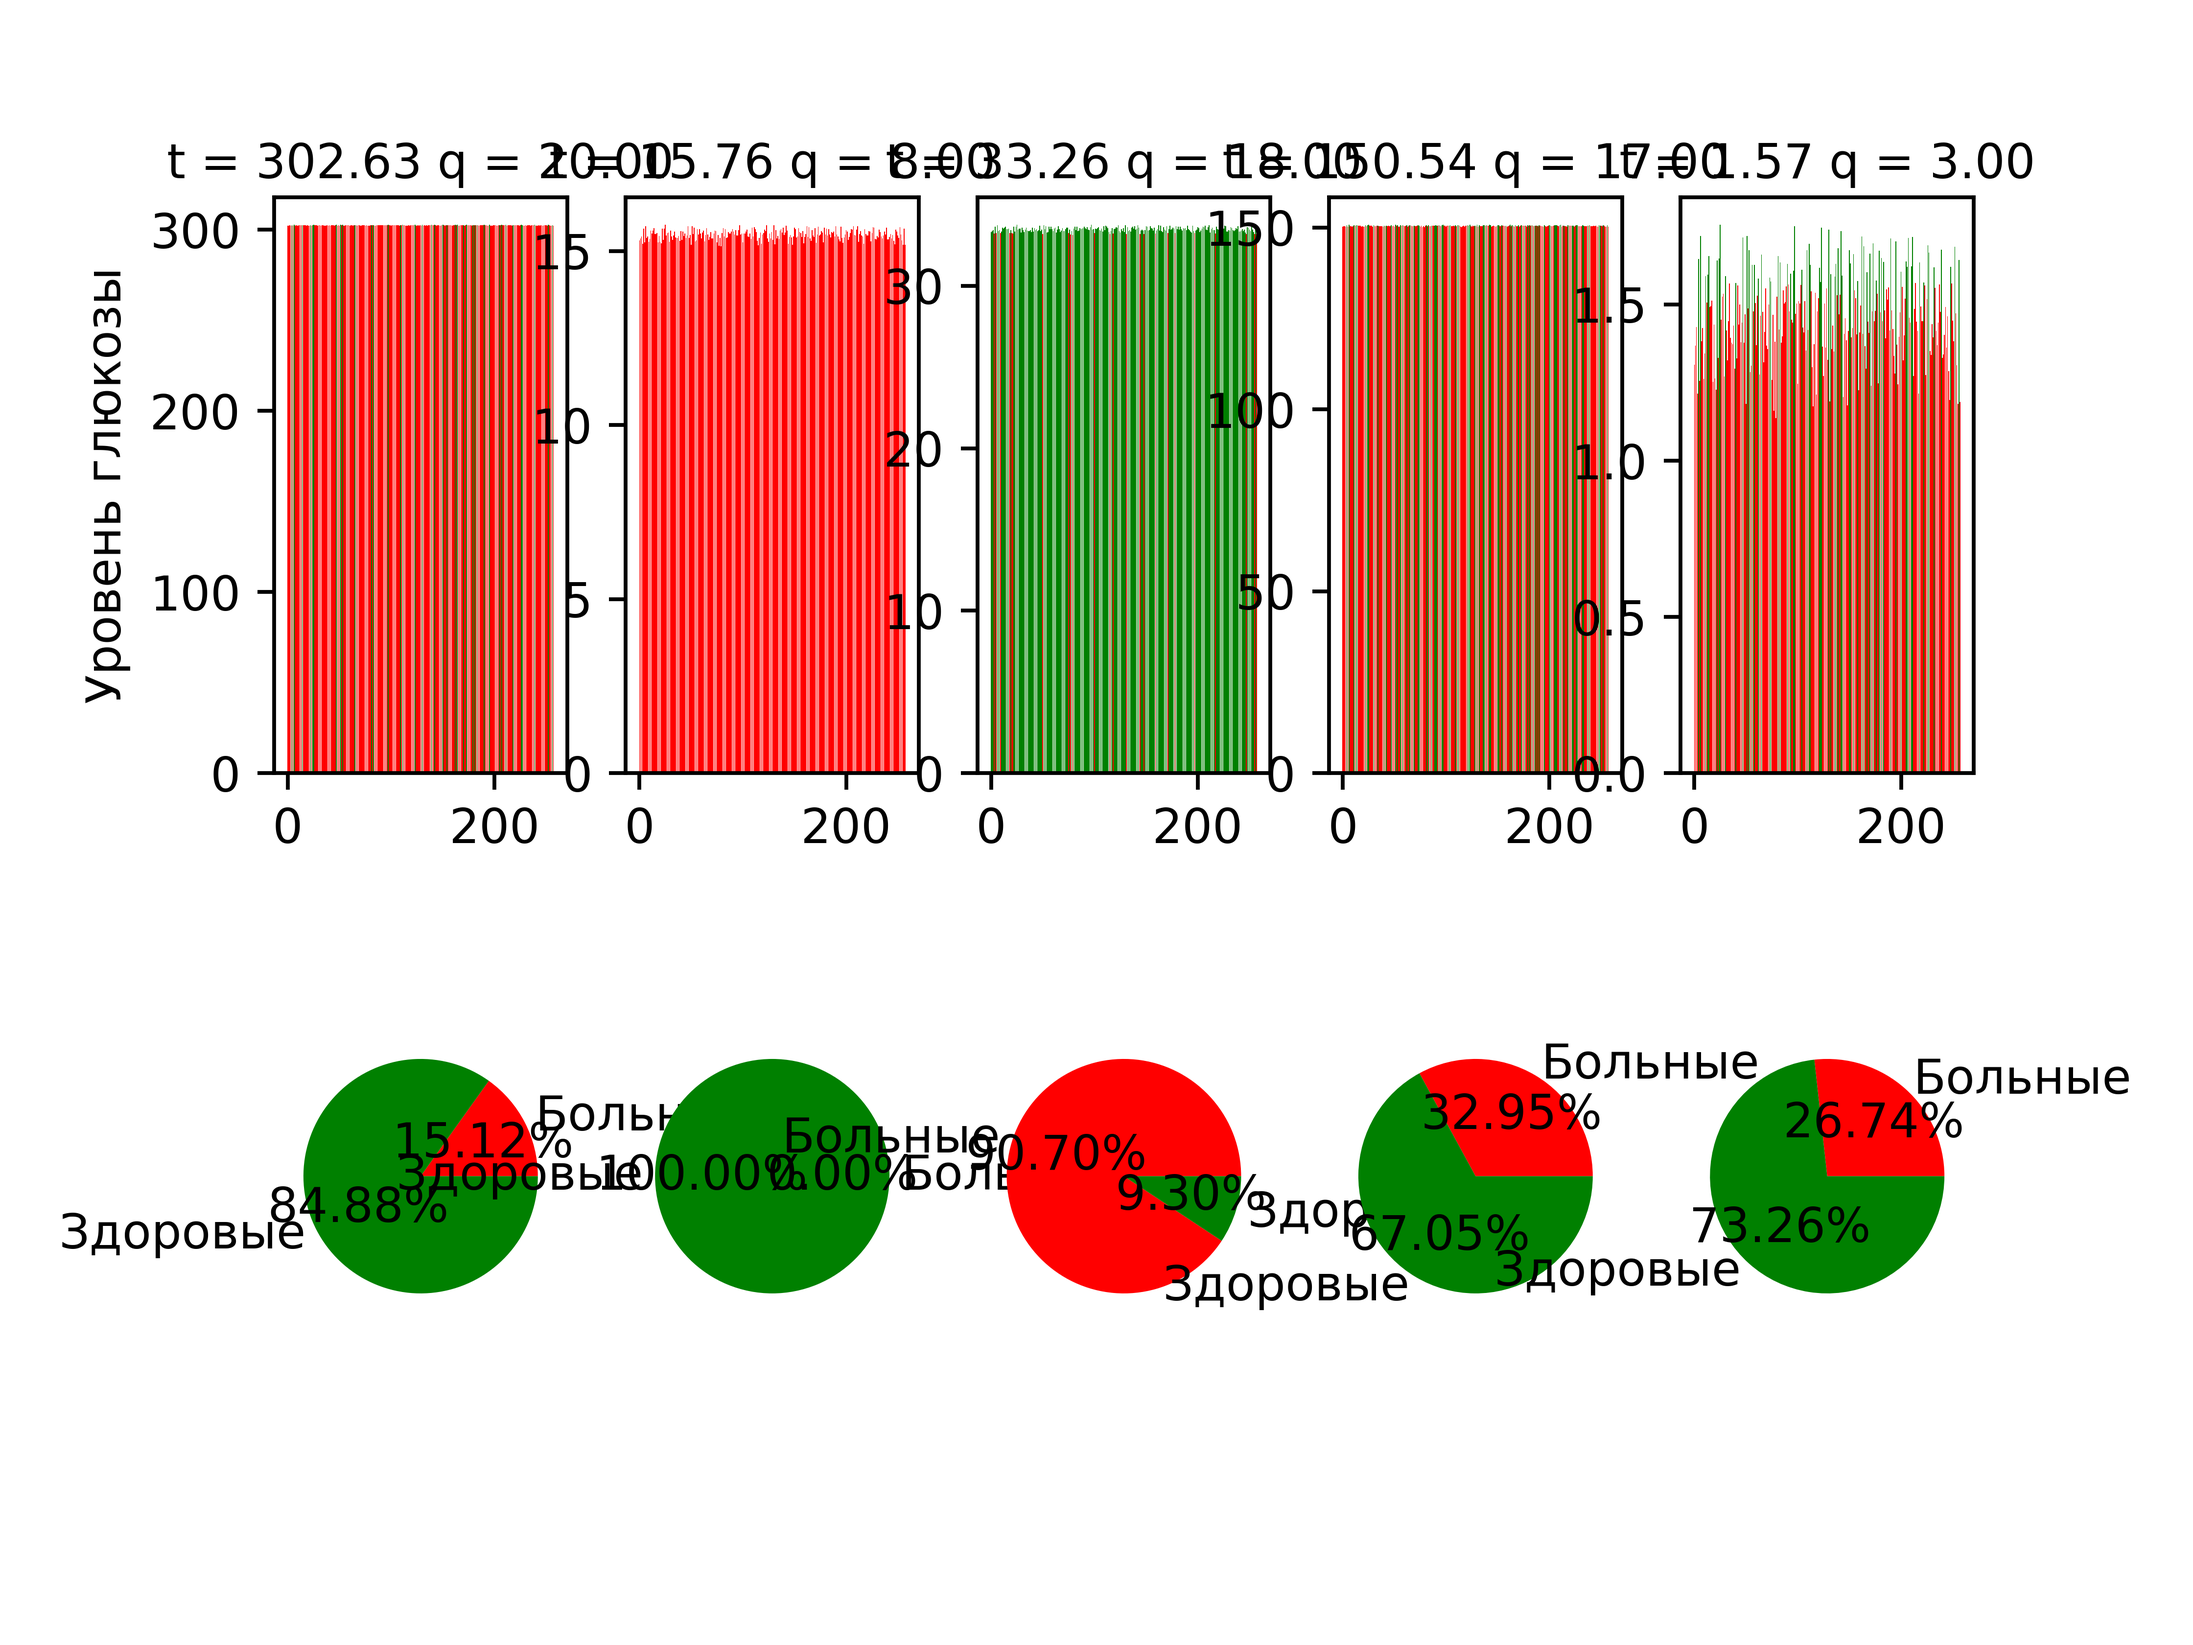
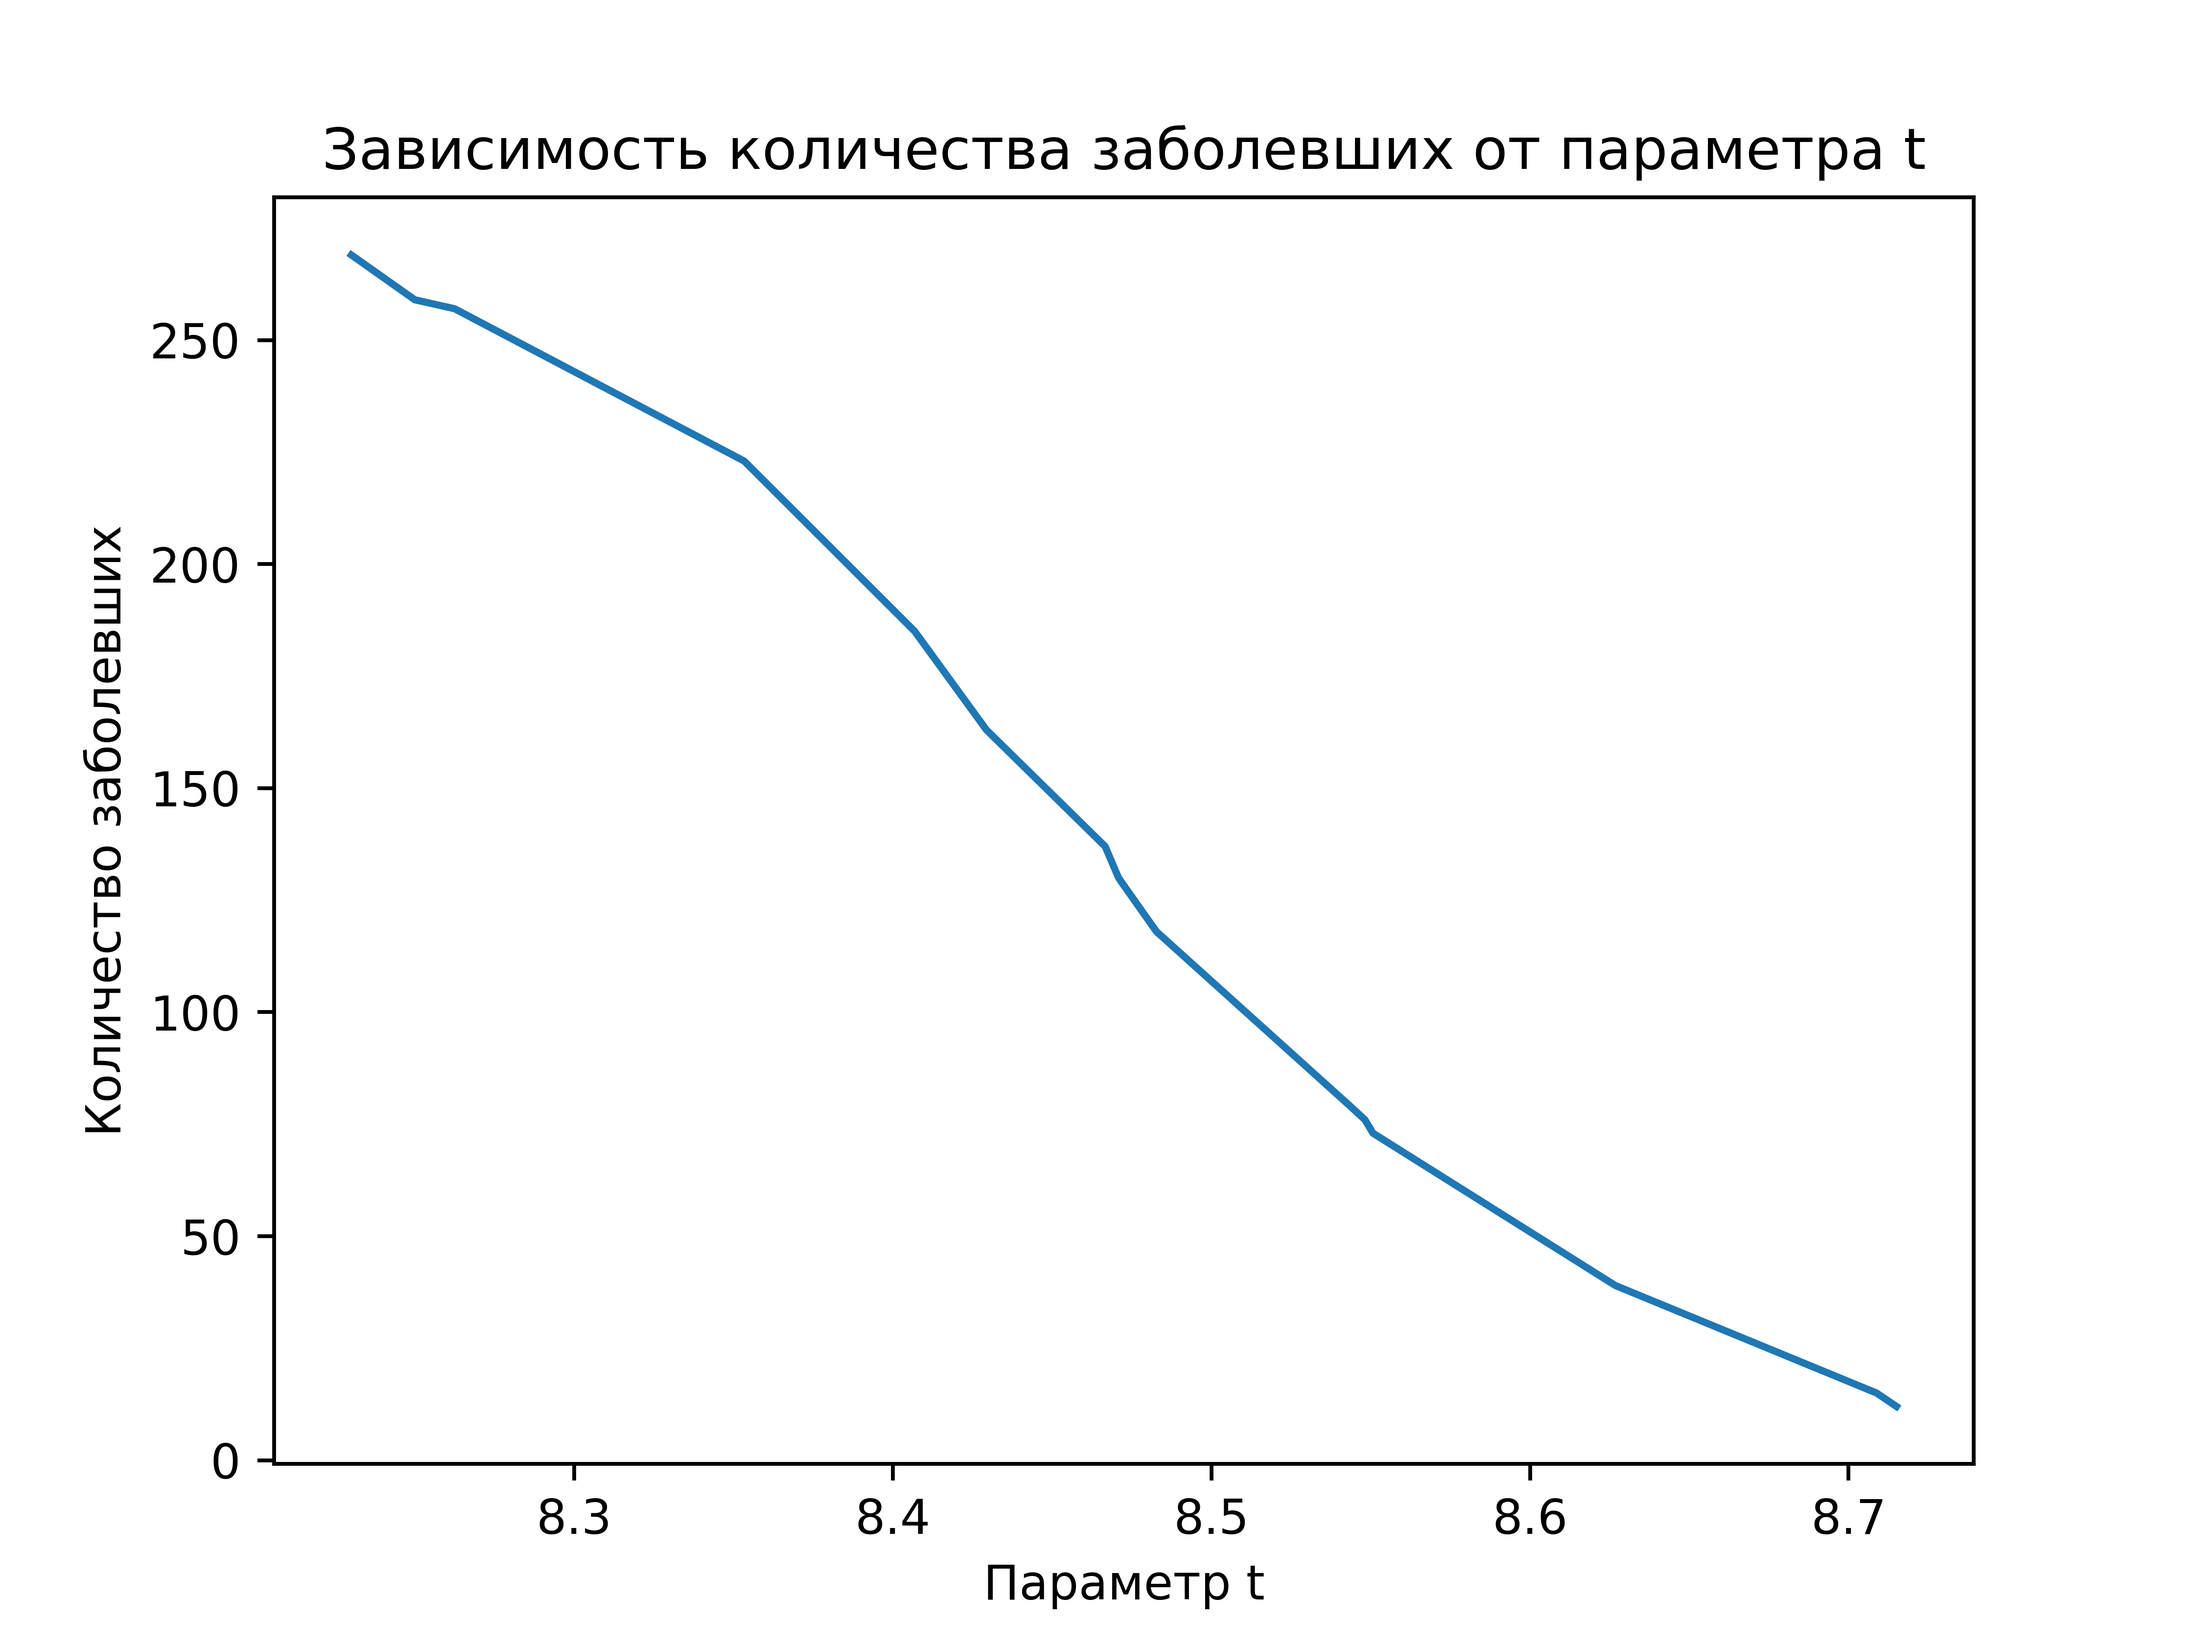
DONE

diff --git a/mainV2.py b/mainV2.py
@@ -7,8 +7,6 @@ D=4
 N = random.randint(1000,1500)
 print('Задание a')
 X=np.zeros((D, N),float)
-print(X.shape)
-print(X)
 
 print('Задание b')
 X[0]=[random.randint(25,210) for i in range(N)]
@@ -16,7 +14,7 @@ X[1]=[random.randint(10,150) for i in range(N)]
 print(X)
 
 print('Задание c')
-print(X)
+
 IMT = X[1]/((X[0]/100)**2)
 
 for j in range(N):
@@ -84,14 +82,16 @@ ROW4=[]
 for c in range(k):
     q =random.randint(0,u*u)
     Q.append(q)
-    #print('q для рандома = ', q)
-    #print('генерим третью строчку')
+    print('q  = ', q)
+    print('Генерация X[2]')
     X[2] = div + random.randint(0,q*q)
     t = random.choice(X[2])
     T.append(t)
-    #print('Значение для глюкозы = ', t )
-    #print('генерим 4 строчку')
+    print(X)
+    print('t =  ', t )
+    print('Генерация X[3]')
     X[3]=[(0,1)[X[2][i]>t] for i in range(N)]
+    print(X)
     l = np.min(X[2]) #минимальное значение сгенерированной глюкозы
     w=0
     okrj=np.max(X[2])
@@ -104,7 +104,7 @@ for c in range(k):
     CountIll.append(np.ndarray.tolist(X[3]).count(1))
     ROW3.append(X[2].copy())
     ROW4.append(X[3].astype('int32').copy())
-
+print(X)
 
 sumArray = np.sum(TwoDimArray,axis = 1)
 for i in range(k):
@@ -115,7 +115,7 @@ for i in range(k):
 fig, ax6 = plt.subplots(2,5)
 
 for i in range(5):
-    color=[('red','green')[ROW4[i][o]] for o in range(N)]
+    color=[('green','red')[ROW4[i][o]] for o in range(N)]
     ax6[0][i].bar(np.arange(0,N),ROW3[i],color=color)
     ax6[0][i].set_xlabel('t = ' + '{:.2f}'.format(T[i]) + ' q = '+ '{:.2f}'.format(Q[i]))
     ax6[0][i].xaxis.set_label_position("top")

diff --git a/taskI.py b/taskI.py
@@ -67,4 +67,6 @@ ax3.set_title('Зависимость количества заболевших 
 ax3.set_xlabel('Параметр t')
 ax3.set_ylabel('Количество заболевших')
 fig.savefig('Задание i(3).png',dpi=700)
-plt.show()
+
+fig,ax4 =plt.subplots()
+
